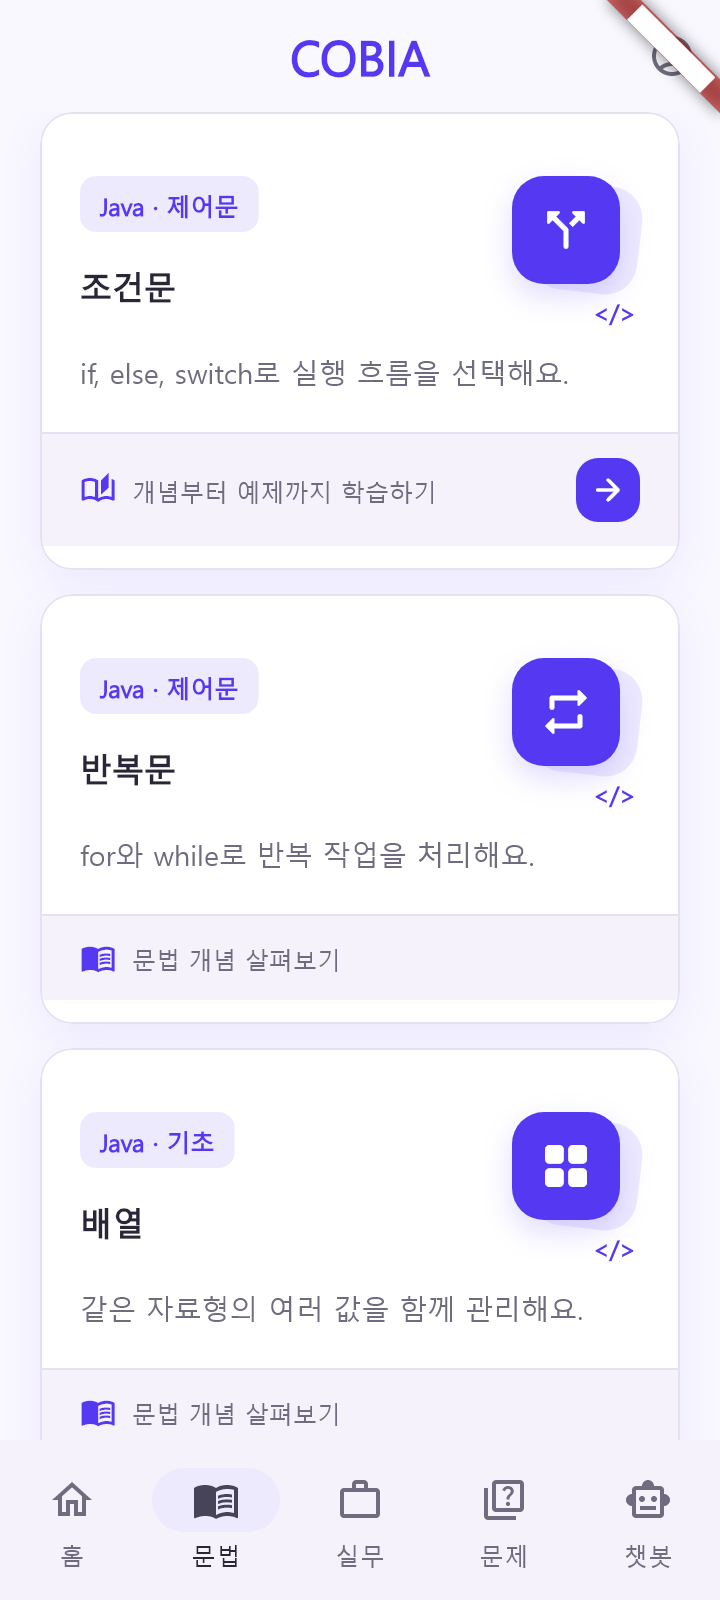
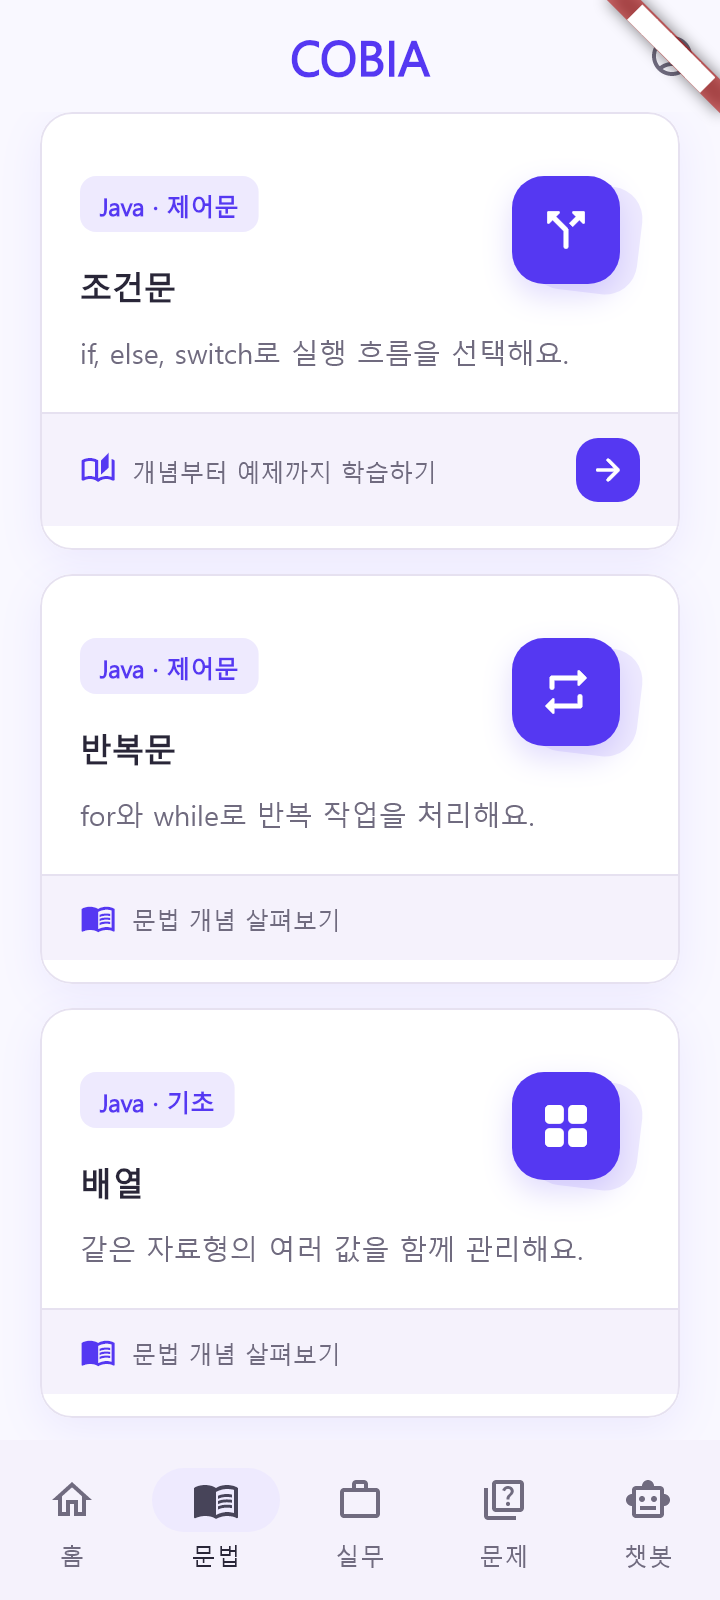
style: 학습 카드 아이콘 아래 장식 문구 제거

diff --git a/lib/app/widgets/learning_overview_content.dart b/lib/app/widgets/learning_overview_content.dart
@@ -11,13 +11,12 @@ class LearningOverviewContent extends StatelessWidget {
     required this.title,
     required this.description,
     required this.icon,
-    required this.symbol,
     required this.footer,
     this.tags = const [],
     this.enabled = true,
   });
 
-  final String label, title, description, symbol, footer;
+  final String label, title, description, footer;
   final IconData icon;
   final List<String> tags;
   final bool enabled;
@@ -69,7 +68,7 @@ class LearningOverviewContent extends StatelessWidget {
                 ExcludeSemantics(
                   child: SizedBox(
                     width: 64,
-                    height: 76,
+                    height: 64,
                     child: Stack(
                       children: [
                         Positioned(
@@ -107,17 +106,6 @@ class LearningOverviewContent extends StatelessWidget {
                               ],
                             ),
                             child: Icon(icon, color: Colors.white, size: 28),
-                          ),
-                        ),
-                        Positioned(
-                          bottom: 0,
-                          right: 2,
-                          child: Text(
-                            symbol,
-                            style: AppTypography.meta.copyWith(
-                              color: AppColors.primary,
-                              fontWeight: FontWeight.w800,
-                            ),
                           ),
                         ),
                       ],

diff --git a/lib/features/problems/presentation/problems_home_screen.dart b/lib/features/problems/presentation/problems_home_screen.dart
@@ -54,7 +54,6 @@ class ProblemsHomeScreen extends StatelessWidget {
                       title: mission.title,
                       description: '반복문과 기본 문법을 확인해보세요.',
                       icon: Icons.terminal_rounded,
-                      symbol: '{ }',
                       tags: const ['코드 작성', '객관식', '출력값 입력'],
                       footer: '3문항 · 문제 풀기',
                     ),

diff --git a/lib/features/grammar/presentation/grammar_home_screen.dart b/lib/features/grammar/presentation/grammar_home_screen.dart
@@ -153,7 +153,6 @@ class _GrammarHomeScreenState extends State<GrammarHomeScreen> {
                     'variables' => Icons.data_object_rounded,
                     _ => Icons.code_rounded,
                   },
-                  symbol: '</>',
                   footer: grammarChapterRoutes.containsKey(chapter.id)
                       ? '개념부터 예제까지 학습하기'
                       : '문법 개념 살펴보기',

diff --git a/lib/features/practical/presentation/practical_topic_card.dart b/lib/features/practical/presentation/practical_topic_card.dart
@@ -28,7 +28,6 @@ class PracticalTopicCard extends StatelessWidget {
         title: topic.title,
         description: topic.summary,
         icon: icon,
-        symbol: 'LAB',
         tags: topic.tags,
         footer: '${topic.chapters.length}개 챕터 · 실무 학습 시작',
       ),
